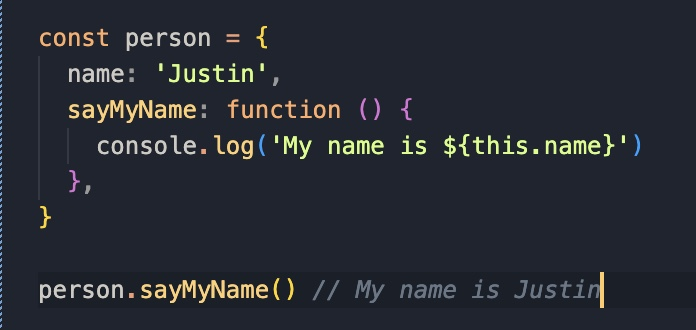
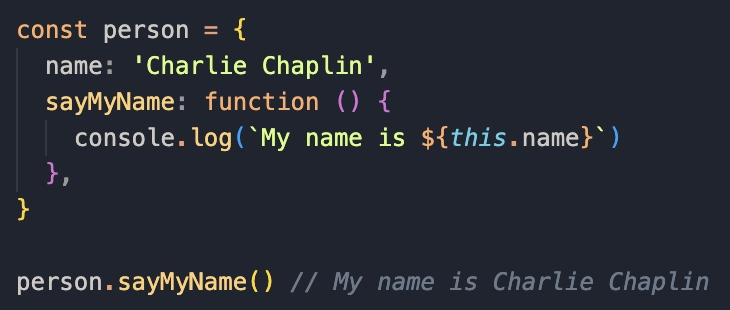
notes on classes, iterables

diff --git a/main.js b/main.js
@@ -126,10 +126,10 @@ It makes functions reusable by letting you decide the object value.
 This value is determined entirely by how a function is called. */
 
 /* function sayMyName(name) {
-  console.log('My name is ${name}')
+  console.log(`My name is ${name}`)
 }
 
-sayMyName('Walter White') */
+sayMyName('King Kong') */
 
 /*  You can determine the value of 'this' keyword by how a function is called.
 
@@ -143,21 +143,256 @@ There are four ways to invoke a function in JavaScirpt and determine the value o
 
 // 1. Implicit Binding
 
-const person = {
-  name: 'Justin',
+/* const person = {
+  name: 'Charlie Chaplin',
   sayMyName: function () {
-    console.log('My name is ${this.name}')
+    console.log(`My name is ${this.name}`)
   },
 }
 
-person.sayMyName() // My name is Justin
+person.sayMyName() // My name is Charlie Chaplin */
 
 /* The implicit binding rule states that when a funciton is invoked with the 'dot' notation, the object to the left of the dot is what this keyword is referencing. In the above example, JavaScript treats 'this.name' as 'person.name', which is equal to the string 'Justin' and the output  */
 
 // 2. Explicit Binding
 
-/*  */
+/* In JS, every function has a built in method called 'call' which allows you to specify the context with which a function is invoked.*/
+
+/* const person = {
+  name: 'Bill Clinton',
+  sayMyName: function () {
+    console.log(`My name is ${this.name}`)
+  },
+}
 
 function sayMyName() {
-  console.log('My name is ${this.name}')
+  console.log(`My name is ${this.name}`)
 }
+
+sayMyName.call(person) */
+
+// We have explicitly specified the context when the function is called.
+
+/* The first argument passed to call is what the 'this' keyword inside sayMyName is referencing. */
+
+// 3. 'new' Binding
+
+/* In this scenario, the function is invoked with the 'this' keywrod referncing an empty object. We can now create multiple people, passing in different names each time */
+
+/*  JavaScript under the hood will create a new empty object that the 'this' keyword will reference.*/
+
+/* function Person(name) {
+  // this is = {}
+  this.name = name
+}
+
+// Constructor function
+const p1 = new Person('Justin')
+const p2 = new Person('Batman')
+
+console.log(p1.name, p2.name) */
+
+// 4. Default Binding
+
+//This is the fallback binding if none of the other three rules are met
+/* function sayMyName() {
+  console.log(`My name is ${this.name}`)
+}
+
+function Person(name) {
+  // this is = {}
+  this.name = name
+}
+
+// Constructor function
+const p1 = new Person('Justin')
+const p2 = new Person('Batman')
+
+sayMyName() // My name is undefined. */
+
+/* None of the three rules are sitisfied, so JavaScript will default to the global scope and set the 'this' keyword to the global object. In the global scope, JS will try to find a variable called 'name'. Since it doesn't find it, this.name is undefined. */
+
+/* Order of Precedence For Binding
+
+1 - New Binding
+2 - Explicit Binding
+3 - Implicit Binding
+4 - Default Binding */
+
+// Prototype
+
+/* In JavaScript, every function has a property called 'prototype' that points to an object. We can make use of that protoyype object to determine all of our shareale properties.*/
+
+/* function Person(fName, lName) {
+  this.firstName = fName
+  this.lastName = lName
+}
+
+// Constructor function
+const person1 = new Person('Bruce ', 'Wayne')
+const person2 = new Person('Clark ', 'Kent')
+// Instead of : person1.getFullName = function (), to create a prototype, we use:
+Person.prototype.getFullName = function () {
+  return this.firstName + '' + this.lastName
+}
+
+console.log(person1.getFullName())
+console.log(person2.getFullName()) */
+
+// Prototypal Inheritance
+
+/* One use of 'prototype' is the share properties and methods across instances. Another use is prototypal inheritance. */
+
+/* function Person(fName, lName) {
+  this.firstName = fName
+  this.lastName = lName
+}
+
+Person.prototype.getFullName = function () {
+  return this.firstName + ' ' + this.lastName
+}
+
+function SuperHero(fName, lName) {
+  //this = {}
+  Person.call(this, fName, lName)
+  this.isSuperHero = true
+}
+SuperHero.prototype.fightCrime = function () {
+  console.log('Fighting crime')
+}
+SuperHero.prototype = Object.create(Person.prototype)
+
+const batman = new SuperHero('Bruce ', 'Wayne')
+console.log(batman.getFullName()) // Bruce Wayne
+SuperHero.prototype.constructor = SuperHero */
+
+/* Initially, Batman only has acces to  'isSuperHero' and 'fightcrime'. To inherit 'firstName' and 'lastName', modify the SuperHero function to accept the paramters, 'fName' and 'lName'. Then, add a 'call method' that specifies where 'this' points to. So, 'this' in Person now refers to 'this' in SuperHero. fName and lName and get assigned the firstName and lastName properties, and are inherited by the SuperHero function.
+
+To inhereit the getFullName method, we used Object.create, which is a method which will delegate to another object on failed lookups. So, SuperHero.prototype is equal to Object.create and we pass in a Person.prototype. When you try to access batman.getFullName, JavaScript checks the prototype object of SuperHero. It doesn't find it. However, it sees that the prototype object has a chain to Person.prototype. Because of the Object.create method, it checks to see if Person.prototype has a getFullName method. It does and will execute that method. This is how the method is inherited through the prototype chain. Hence the name, prototypal inheritance.
+
+Now, we can modify the SuperHero instance of batman, input first and last name, and then console log batman.getFullName(). batman SuperHero has inherited getFullName from Person. The method will access this.firstName and this.lastName, which are inherited by the SuperHero function.
+
+The last thing you need to do is to ensure SuperHero.prototype.constructor is equal to SuperHero. Otherwise, JavaScript thinks that a 'SuperHero' is created from 'Person', which is incorrect. SuperHero inherits properties and methods From 'Person'
+ */
+
+// Class
+
+/* 
+To recreate the code from Prototypal inheritance, first the Person function becomes class Person. Next, the initialization of the name arguments gets moved into a constructor that accepts 'fName' and 'lName'.
+*/
+
+/* class Person {
+  constructor(fName, lName) {
+    this.firstName = fName
+    this.lastName = lName
+  }
+  //Lastly, change all the methods on the prototype object to be rewritten as methods within the class.
+  sayMyName() {
+    return this.firstName + ' ' + this.lastName
+  }
+}
+// You can now create different instances of the Person.
+const classP1 = new Person('Bruce', 'Wayne')
+console.log(classP1.sayMyName()) // Bruce Wayne
+
+// We can create an instance and access the properties and methods like before. Nothing changes. The 'class' keyword simply makes the syntax better.
+
+// To rewrite 'SuperHero', we use two keywords that care of the entire inheritance, 'extends' and 'super'.
+
+// We specify that class SuperHero extends Person and in the constructor, we accept fName and lName. We invoke the 'super' method that JavaScript provides. In the 'super' method, we pass fName and lName. This will call the Person class constructor. Once we call 'super', we set the SuperHero properties and methods in the class. We set this.isSuperHero to true. Then, we define the fight crime method.
+class SuperHero extends Person {
+  constructor(fName, lName) {
+    super(fName, lName)
+    this.isSuperHero = true
+  }
+  fightCrime() {
+    console.log('Fighting crime')
+  }
+}
+
+const batman = new SuperHero('Bruce', 'Wayne')
+console.log(batman.sayMyName()) */
+
+// Here is the entire code without notes:
+
+/* class Person {
+  constructor(fName, lName) {
+    this.firstName = fName
+    this.lastName = lName
+  }
+  sayMyName() {
+    return this.firstName + ' ' + this.lastName
+  }
+}
+
+const classP1 = new Person('Bruce', 'Wayne')
+console.log(classP1.sayMyName())
+
+class SuperHero extends Person {
+  constructor(fName, lName) {
+    super(fName, lName)
+    this.isSuperHero = true
+  }
+  fightCrime() {
+    console.log('Fighting crime')
+  }
+}
+
+const batman = new SuperHero('Bruce', 'Wayne')
+console.log(batman.sayMyName()) */
+
+// The important takeaways are: how to create a class, how to initialize properties, how to add methods, how to create an instance of the class, how to inherit using the 'extends' and 'super' keywords.
+
+// Iterables and Iterators
+
+/* Before 2013, JavaScript only had three looping contructs: 'for' 'while' and 'do while' */
+
+// For Loop
+// Here's how to iterate and access data with string and array types using the 'for' loop.
+
+/* // String
+const str = 'Bennigans'
+
+// for loop
+for (let i = 0; 1 < str.length; i++) {
+  console.log(str.charAt(i))
+}
+
+// Array
+const arr = ['B', 'e', 'n', 'n', 'i', 'g', 'a', 'n', 's']
+
+// for loop
+for (let i = 0; i < arr.length; i++) {
+  console.log(arr[i])
+} */
+
+/* These methods make it difficult to access the element and difficult to manage iteration on the dats for varius types of data structures.
+
+We need to create a new variable 'i', keep track of it to ensure it satisfies a condition and finally increment that vlaue of 'i' to access the next eleemtn in the collection. If there are nested 'for' loops, we have to do this all over again with a second variable. So, it would be difficult to access the element itself before even getting to the part where we do something with that element.
+
+Pertaining to data structure, it is difficult to manage iteration on data for various types of data structures. Iterating and accessing elements on a string is different from iterating on an array.
+
+Iterables and Iterators were introduced in 2015 and offer a way to iterate over various data structures in a way that abstracts away the complexity of accessing elements one by one and are, at the same time, uniform across the different data structures. This makes code more readable and less confusing. Iterables and Iterators make it possible to access data from a collection one at a time, which allows us to focus on what to do with the data, rather than how to access the data. 
+
+Some data structures, including Strings, Arrays, Maps and Sets now implement the iterable protocol by default. They are termed as Built In Iterables.
+
+A new looping construct was also introduced in 2015 to iterate over an iterable: the 'for of' loop.
+*/
+
+// For..of Loop
+
+//String
+const str = 'Bennigans'
+
+for (const char of str) {
+  console.log(char)
+}
+
+// Array
+const arr = ['B', 'e', 'n', 'n', 'i', 'g', 'a', 'n', 's']
+
+for (const item of arr) {
+  console.log(item)
+}
+
+// We don't really have to worry about accessing the element from the data structure. It is just given to us one by one in a sequence, allowing us to focus on the functionality. In this example, we are just logging to the console, but you can add any functionality you want.
